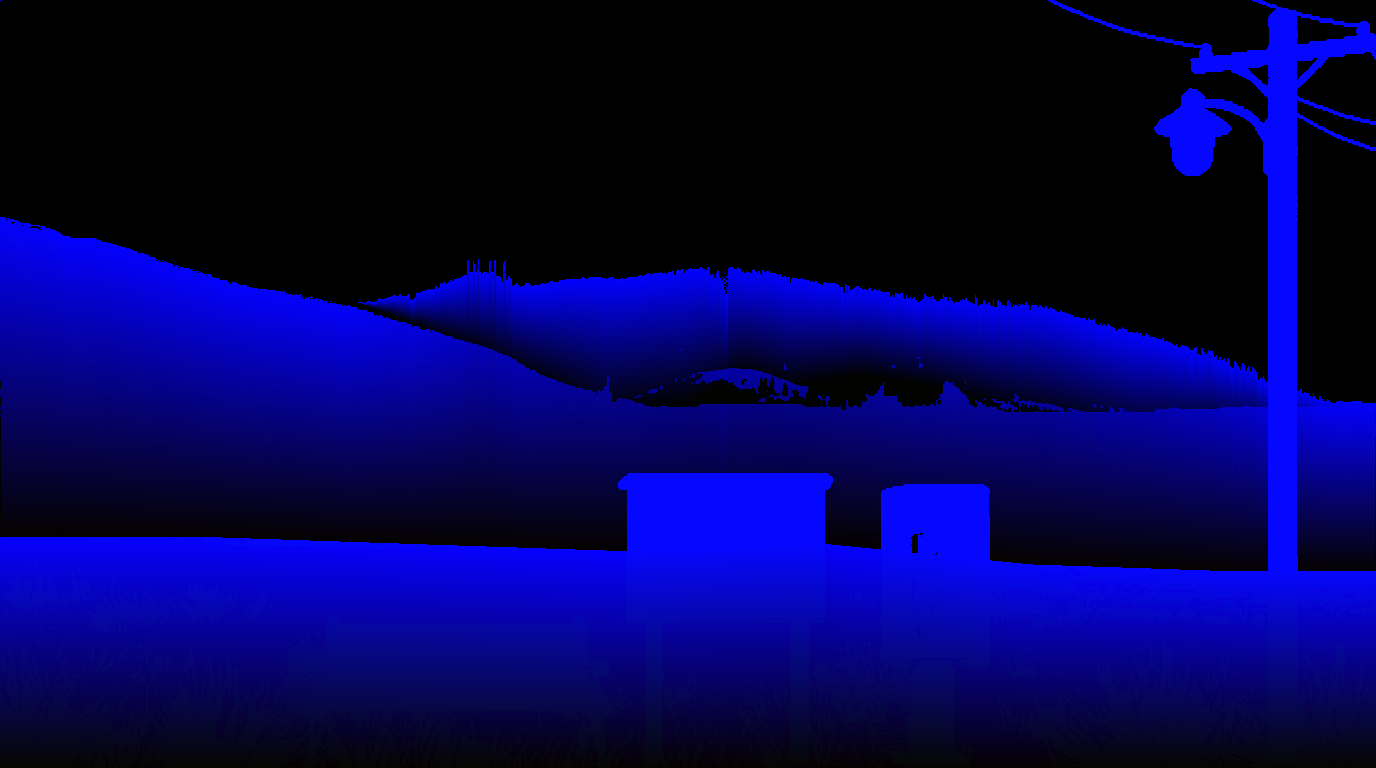
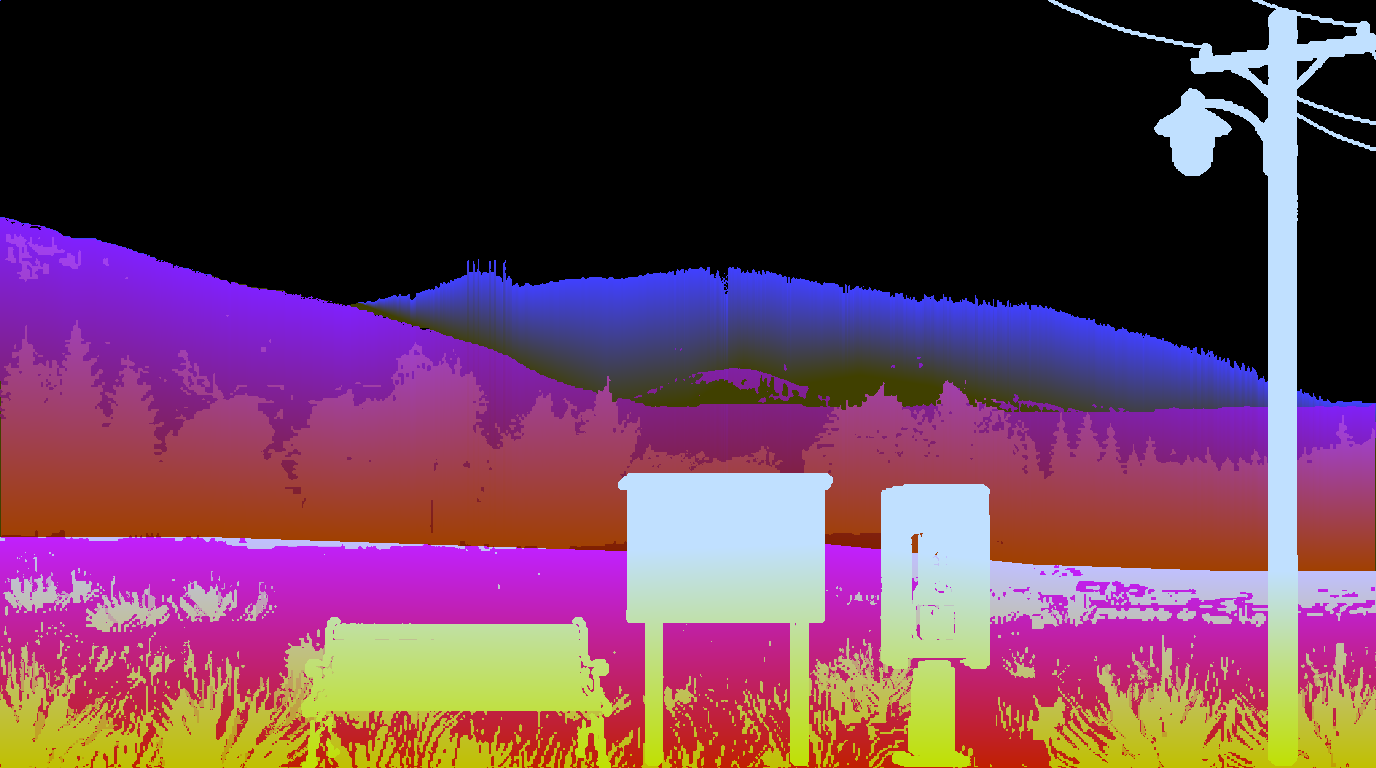
Store mask codes 32 apart so browser color management cannot corrupt them
Android Chrome (and at least one desktop browser) color-manages a PNG on its way into a
canvas, shifting pixel values by a unit or two. The mask stored layer and material as the
values 0..7, so a 6 arriving as 7 looked up a layer that does not exist and crashed the
lighting pass in the worker and then in the main-thread fallback, freezing the page on its
first frame. Codes are now stored times 32 and snapped back on load, the bitmap is decoded
without color-space conversion, and an unknown layer falls back to the near layer instead
of throwing.

Claude-Session: https://claude.ai/code/session_017uG7MLuTApwrxSRPSGFBpr

diff --git a/src/assets.js b/src/assets.js
@@ -4,13 +4,14 @@ import { makeCanvas } from './util/pixel.js';
 // The painted backdrop (from art/concept_art_01.jpg via tools/build_backdrop.py) and its mask.
 // Mask channels: R = layer (0 sky, 1 peak, 2 range, 3 far hill, 4 flank, 5 trees, 6 near), G = material
 // (0 none, 1 grass, 2 foliage, 3 rock, 4 snow, 5 dirt, 6 shrub, 7 painted prop), B = height within the layer (0..255).
+// In the PNG the R and G codes are stored times 32; loadBackdrop snaps them back.
 export const LAYER = { SKY: 0, PEAK: 1, RANGE: 2, FARHILL: 3, FLANK: 4, TREES: 5, NEAR: 6 };
 export const MAT = { NONE: 0, GRASS: 1, FOLIAGE: 2, ROCK: 3, SNOW: 4, DIRT: 5, SHRUB: 6, PROP: 7 };
 
 // Works on the page and in a worker (no Image or document there).
 async function loadPixels(url) {
   let src;
-  if (typeof createImageBitmap === 'function') src = await createImageBitmap(await (await fetch(url)).blob());
+  if (typeof createImageBitmap === 'function') src = await createImageBitmap(await (await fetch(url)).blob(), { colorSpaceConversion: 'none', premultiplyAlpha: 'none' });
   else { src = new Image(); src.src = url; await src.decode(); }   // older page contexts
   const c = typeof OffscreenCanvas !== 'undefined' ? new OffscreenCanvas(W, H) : makeCanvas(W, H)[0];
   const g = c.getContext('2d', { willReadFrequently: true });
@@ -20,6 +21,9 @@ async function loadPixels(url) {
 
 export async function loadBackdrop() {
   const [rgb, mask] = await Promise.all([loadPixels(new URL('../' + ASSET_DIR + '/backdrop.png', import.meta.url)), loadPixels(new URL('../' + ASSET_DIR + '/backdrop_mask.png', import.meta.url))]);
+  // the mask stores layer and material codes 32 apart; snap them back to 0..7 so a browser
+  // that color-manages the PNG on the way in (a unit or two of drift) cannot corrupt them
+  for (let i = 0; i < mask.length; i += 4) { mask[i] = (mask[i] + 16) >> 5; mask[i + 1] = (mask[i + 1] + 16) >> 5; }
   // first terrain row in each column (ignoring painted props like the pole), for fog over the crest
   const ridge = new Int16Array(W).fill(H);
   for (let x = 0; x < W; x++) {

diff --git a/src/render/terrain.js b/src/render/terrain.js
@@ -142,7 +142,7 @@ export function renderTerrain(img, env, assets) {
         }
         continue;
       }
-      const L = LAYERS[layer], P = per[layer];
+      const L = LAYERS[layer] || LAYERS[LAYER.NEAR], P = per[layer] || per[LAYER.NEAR];
       const mat = mask[i + 1], e = mask[i + 2] / 255;
       let c = [rgb[i], rgb[i + 1], rgb[i + 2]];
       let snowy = mat === MAT.SNOW && !bare;

diff --git a/tools/build_backdrop.py b/tools/build_backdrop.py
@@ -9,8 +9,8 @@ targets and the numbers the renderer needs. Coordinates are in the config's "ref
 painting that is an exact multiple of that size scales them automatically. Writes:
 
   assets/backdrop.png       the painting at native pixels, sky masked out (black), notes cleared off the cork
-  assets/backdrop_mask.png  RGB: R = layer (0 sky, 1 peak, 2 range, 3 far hill, 4 flank, 5 trees, 6 near)
-                                 G = material (0 none, 1 grass, 2 foliage, 3 rock, 4 snow, 5 dirt, 6 shrub, 7 prop)
+  assets/backdrop_mask.png  RGB: R = 32 * layer (0 sky, 1 peak, 2 range, 3 far hill, 4 flank, 5 trees, 6 near)
+                                 G = 32 * material (0 none, 1 grass, 2 foliage, 3 rock, 4 snow, 5 dirt, 6 shrub, 7 prop)
                                  B = height within the layer's column (0 bottom .. 255 top)
   assets/backdrop.json      size, horizon and all scene geometry for the site (scaled)
 
@@ -356,7 +356,10 @@ def main():
         sel = layer == lid
         t = np.clip((bot_line[None, :] - yy) / np.maximum(bot_line[None, :] - top_line[None, :], 1), 0, 1)
         hf[sel] = t[sel]
-    mask = np.stack([layer, mat, (hf * 255).astype(np.uint8)], -1)
+    # layer and material codes are stored 32 apart (0, 32, 64, ...): some browsers color-manage
+    # PNGs on the way into a canvas, shifting values by a unit or two, and a code that lands on the
+    # wrong integer crashes the lighting pass. The loader snaps them back.
+    mask = np.stack([layer * 32, mat * 32, (hf * 255).astype(np.uint8)], -1).astype(np.uint8)
 
     # --- outputs
     os.makedirs(os.path.join(ROOT, 'assets'), exist_ok=True)

diff --git a/CLAUDE.md b/CLAUDE.md
@@ -24,7 +24,7 @@ Three rules that override everything else:
 
 **One environment object drives everything.** `src/main.js` runs the `requestAnimationFrame` loop. Each frame `computeEnv()` builds `state.env` from the time (or the debug override), the sun and moon (`src/util/solar.js`), the live weather (`src/weather.js`: Open-Meteo, no key, every 10 minutes, current conditions plus the hourly feed for the past day), and the sky palette (`src/palette.js`, keyframed by sun altitude, modified by cover, precipitation, fog). Derived conditions live here too: `inversion` (fog in a cold month), `mountainFog` (low cloud cover or precipitation), `dusting` (snowfall in the last 18 hours and hours above freezing since). Renderers read only `env`.
 
-**The scene is the user's painting, re-lit.** The canvas is the size of the art (phones and screens under 1100 CSS px wide get the half-size copy in `assets/small/`, written by the same build; `?small` / `?full` override; `SMALL` in `state.js`, passed to the worker through its URL). `assets/backdrop.json` (read by `src/state.js` as `META` at load) carries the size, horizon, hotspots, cork rectangle, lantern position, camera targets, fog lines, snow caps, and default notes, so the JS holds no art-specific numbers. `assets/backdrop.png` is the painting at native pixels with the sky masked out and the painted notes cleared off the cork; `assets/backdrop_mask.png` carries per pixel a depth layer (R: sky, peak, range, far hill, flank, trees, near), a material (G: grass, foliage, rock, snow, dirt, shrub, prop), and a height fraction within the layer (B). Sky pixels stay transparent so the procedural sky shows through.
+**The scene is the user's painting, re-lit.** The canvas is the size of the art (phones and screens under 1100 CSS px wide get the half-size copy in `assets/small/`, written by the same build; `?small` / `?full` override; `SMALL` in `state.js`, passed to the worker through its URL). `assets/backdrop.json` (read by `src/state.js` as `META` at load) carries the size, horizon, hotspots, cork rectangle, lantern position, camera targets, fog lines, snow caps, and default notes, so the JS holds no art-specific numbers. `assets/backdrop.png` is the painting at native pixels with the sky masked out and the painted notes cleared off the cork; `assets/backdrop_mask.png` carries per pixel a depth layer (R: sky, peak, range, far hill, flank, trees, near), a material (G: grass, foliage, rock, snow, dirt, shrub, prop), and a height fraction within the layer (B). The layer and material codes are stored 32 apart in the PNG and snapped back on load: some browsers (Android Chrome among them) color-manage a PNG on its way into a canvas and shift values by a unit, which once turned every mask code into garbage on phones and one desktop. Sky pixels stay transparent so the procedural sky shows through.
 
 **Paintings and configs.** Each painting has `art/NAME.json`; `art/current` names the one in use (currently `layered`). A config names the files (`art`, the prop-less `bare`, optionally `props_only` on black and `props_from` to copy prop pixels from another painting of the same scene, optionally a `front` painting layered over the back with its checkerboard "transparency" keyed out and pixel-doubled if it came at half size), the traced silhouettes (`skyline`, `peak`, `far_mid`, `meadow`), prop boxes, material flags (`far_is_forest`, `scan_simple`, `haze_scale`), and everything that ends up in `backdrop.json`. Coordinates are in the config's `ref` size; a painting that is an exact multiple of it scales automatically, one a few pixels off is snapped. Silhouette traces were partly measured and partly hand-placed; when a new painting arrives, re-measure rather than reuse.
 
